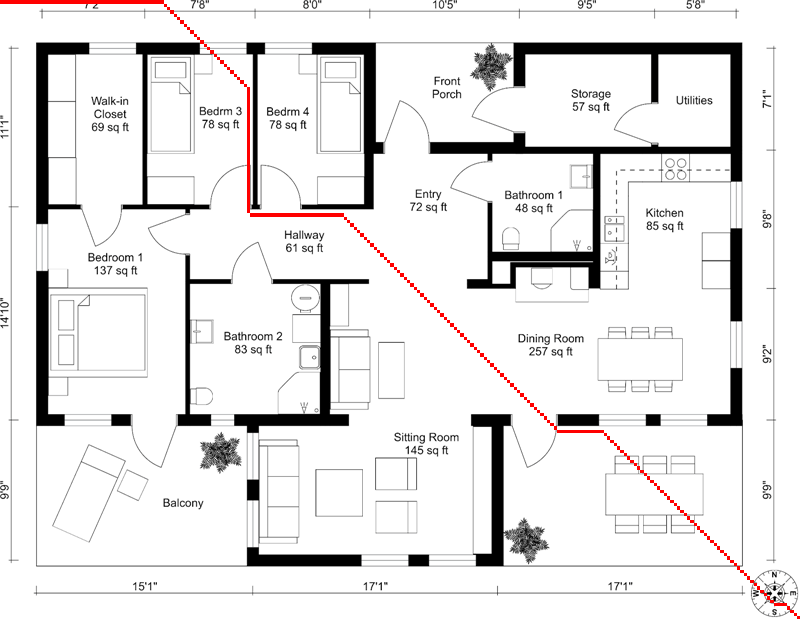
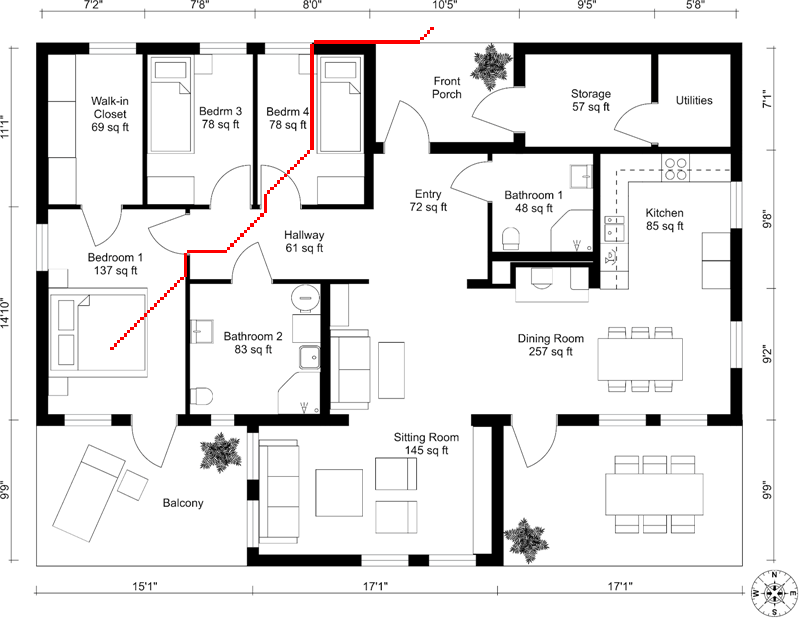
Improved Mod3 v1.py: now lets users click to define start and goal positions for pathfinding

diff --git a/Modules/3_Pathfinding/v1.py b/Modules/3_Pathfinding/v1.py
@@ -250,8 +250,6 @@ def drawPath(pathNodes, img):
 def overlayPath(img, fp):
     
     # scale new image to match ogFPImg
-    # print(img.shape)
-    # print(fp.shape)
     shapeIWant = []
     shapeIWant.append(fp.shape[1])
     shapeIWant.append(fp.shape[0])
@@ -268,17 +266,39 @@ def overlayPath(img, fp):
                 fp[x,y] = [0,0,255]
     return fp
 
+def onMouse(event, x, y, flags, param):
+    global mousePos
+    if event == cv.EVENT_LBUTTONDOWN:
+        x, y = y, x
+        mousePos = [x,y]
+        cv.destroyWindow(globalLabel)
+        # print(f'{mousePos}\tPress any key to confirm...')
+
+def setPosWithMouse(img, label):
+    '''Returns the position of the cursor when LeftButton is pressed.'''
+    
+    global globalLabel
+    globalLabel = f'Set {label}\'s position'
+    cv.imshow(f'Set {label}\'s position', img)
+    cv.setMouseCallback(f'Set {label}\'s position', onMouse)
+    cv.waitKey(0)
+    # cv.destroyWindow(f'Set {label}\'s position')
+    try:
+        mousePos[0] = round(mousePos[0]*0.3)
+        mousePos[1] = round(mousePos[1]*0.3)
+    except NameError:
+        print("Failed to set position, exiting...")
+        raise SystemExit
+    return mousePos
+
 # read testFP in grayscale mode
 originalFPImg = cv.imread(f'Floorplans/{floorPlanNum}.jpg')
 ogRows = originalFPImg.shape[0]
 ogCols = originalFPImg.shape[1]
-# print(f'Rows: {ogRows}')
-# print(f'Cols:{ogCols}')
-# print(ogRows, ogCols)
 inputImg = cv.imread('Floorplans/Output.png', cv.IMREAD_GRAYSCALE)
 inputImg = cv.bitwise_not(inputImg) # inverted original image
 img = cv.resize(inputImg, (0,0), fx=0.30, fy=0.30, interpolation=cv.INTER_NEAREST)
-
+# resizedOriginalFPImg = cv.resize(originalFPImg, (0,0), fx=0.30, fy=0.30, interpolation=cv.INTER_NEAREST)
 
 # get dimensions of the input image
 rows, cols = img.shape
@@ -290,16 +310,12 @@ for x in range(rows):
     for y in range(cols):
         newNode = Node([x,y])
         nodes.append(newNode)
-# set start node, goal node        
-try: #TODO: https://stackoverflow.com/questions/28327020/opencv-detect-mouse-position-clicking-over-a-picture
-    start = [0,0]
-    img[start[0], start[1]]
-except IndexError:
-    print("Start node is out of image bounds! Setting default start position [0,0]...")
-    start = [0,0]
+
+# set start node, goal node
+print("Click anywhere to set the goal position.")
+goal = setPosWithMouse(originalFPImg, 'Civilian')
 try:
     # for FP 4 use goal = 175, 72
-    goal = [1750, 72]
     img[goal[0], goal[1]]
 except IndexError:
     print("Goal node is out of image bounds! Setting default goal position...")
@@ -308,6 +324,14 @@ except IndexError:
 if not findNodeHavingCoords(goal).isTraversable():
     print("Goal node is not traversable!")
     raise SystemExit
+
+print("Click anywhere to set the start position.")
+start = setPosWithMouse(originalFPImg, 'Rescue Team')      
+try:
+    img[start[0], start[1]]
+except IndexError:
+    print("Start node is out of image bounds! Setting default start position [0,0]...")
+    start = [0,0]
 
 open = []
 closed = []
@@ -320,7 +344,7 @@ startNode.gCost = 0
 pathFound = False
 # core loop
 startTime = time.time()
-print("Finding path, please wait...")
+print("\nFinding path, please wait...")
 for i in range(15000): # just a hard limit for safety
     # set current to the node in OPEN with the lowest fCost. Here, sorted() will sort by fCost because __lt__ was manually defined to do so.
     try:
@@ -367,7 +391,7 @@ else: # runs if the for loop exits without touching a break statement
 if pathFound: print('Path found.')
 endTime = time.time()
 print(f'Elapsed time: {endTime - startTime:.2f} seconds.')
-print("Drawing path...")
+print("\nDrawing path...")
 pathNodes = getPath(goal)
 newImg = drawPath(pathNodes, img)
 finalImg = overlayPath(newImg, originalFPImg)

diff --git a/ProvingGround.py b/ProvingGround.py
@@ -1,4 +1,5 @@
 import numpy as np
+import cv2 as cv
 
 # myArray = np.array([[1,2,3],
 #                     [4,5,6],
@@ -24,22 +25,37 @@ import numpy as np
 
 # print("After try-except block.")
 
-class Fruit():
-    def __init__(self, name, price):
-        self.name = name
-        self.price = price
+# class Fruit():
+#     def __init__(self, name, price):
+#         self.name = name
+#         self.price = price
 
-    # def __lt__(self, other): # other is another instance of Fruit
-    #     return self.price < other.price
+#     # def __lt__(self, other): # other is another instance of Fruit
+#     #     return self.price < other.price
     
-    def __gt__(self, other): # other is another instance of Fruit
-        return self.price > other.price
+#     def __gt__(self, other): # other is another instance of Fruit
+#         return self.price > other.price
 
-apple = Fruit("Apple", 5)
-cherry = Fruit("Cherry", 20)
-blueberry = Fruit("Blueberry", 10)
-L = [cherry, apple, blueberry]
+# apple = Fruit("Apple", 5)
+# cherry = Fruit("Cherry", 20)
+# blueberry = Fruit("Blueberry", 10)
+# L = [cherry, apple, blueberry]
 
-print("-----sorted using comparison operator (without key)-----")
-for f in sorted(L):
-    print(f.name)
+# print("-----sorted using comparison operator (without key)-----")
+# for f in sorted(L):
+#     print(f.name)
+
+def onMouse(event, x, y, flags, param):
+    global mousePos
+    global img
+    if event == cv.EVENT_LBUTTONDOWN:
+        mousePos = [x,y]
+        print(mousePos)
+
+
+img = cv.imread('Modules/3_Pathfinding/TestOutput.png')
+cv.imshow('image', img)
+cv.setMouseCallback('image', onMouse)
+cv.waitKey(0)
+cv.destroyAllWindows
+print(mousePos)
